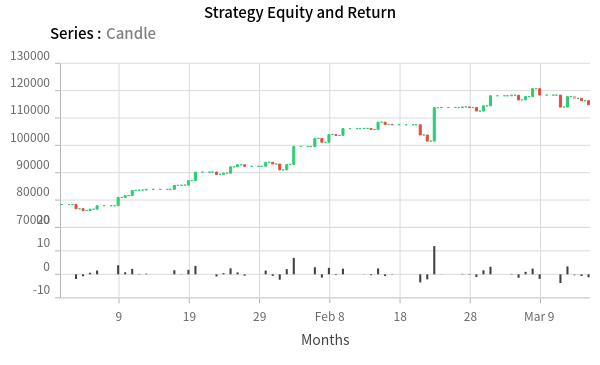
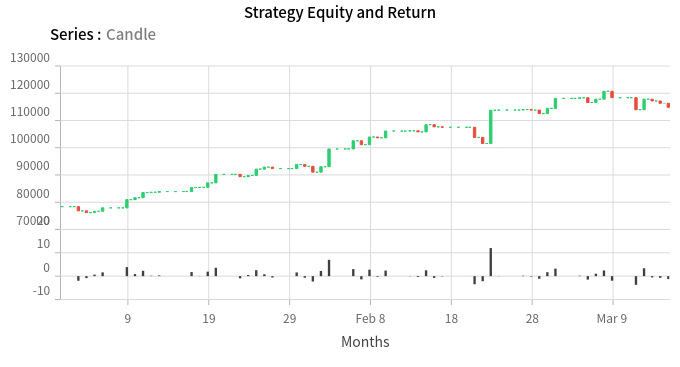
chore: update backtest

diff --git a/README.md b/README.md
@@ -23,6 +23,6 @@ https://github.com/anuraghazra/github-readme-stats -->
 <!-- <script src='https://www.quantconnect.com/terminal/backtest.js?sid=6aff58f34f544ef36eda9fa1dd215f05'></script> -->
 
 <!-- ![[Strategy Equity Chart](https://www.efjerryyang.top/qc-backtesting-results/)](./assets/StockChart.png) -->
-<a href="https://www.efjerryyang.top/qc-backtesting-results/"><img src="./assets/StockChart(1).png" alt="StockChart" width="90%"/></a>
+<a href="https://www.efjerryyang.top/qc-backtesting-results/"><img src="./assets/StockChart.png" alt="StockChart" width="90%"/></a>
 
 <!-- ### Live Trading -->
